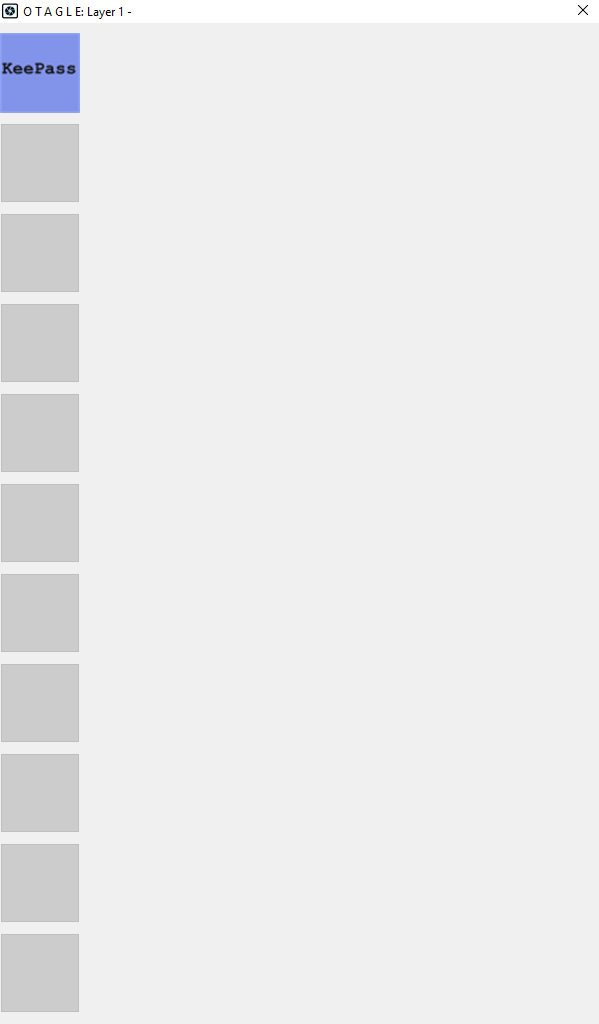
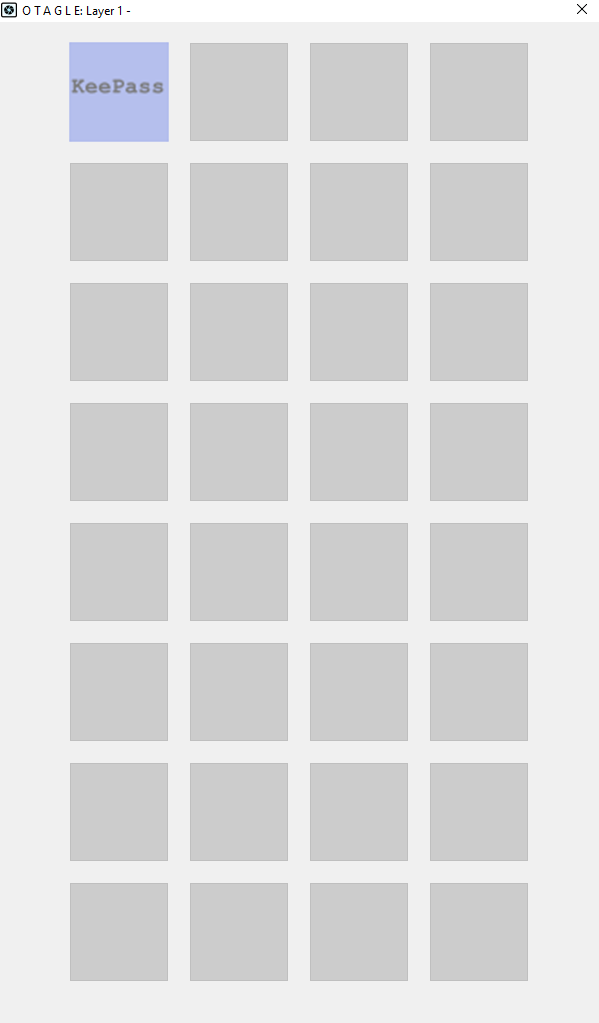
Fixed picture and description.

diff --git a/Otagle2/README.md b/Otagle2/README.md
@@ -117,8 +117,6 @@ Tip: I made a mistake and now matrix shows activated icon by default. Now you ca
 ![Otagle2 after reload](/Otagle2/pictures/Otagle2_AfterReload.png)
 ##### Picture. After reload application starts.
 
-**Comment**: As you can see on the last picture, something went wrong and instead of matrix 6 x 11 only 1 x 11 is displayed. Consider it as a bug.
-
 ---
 Added or changed files when configuration wizard is finished:
 - Config.ini
